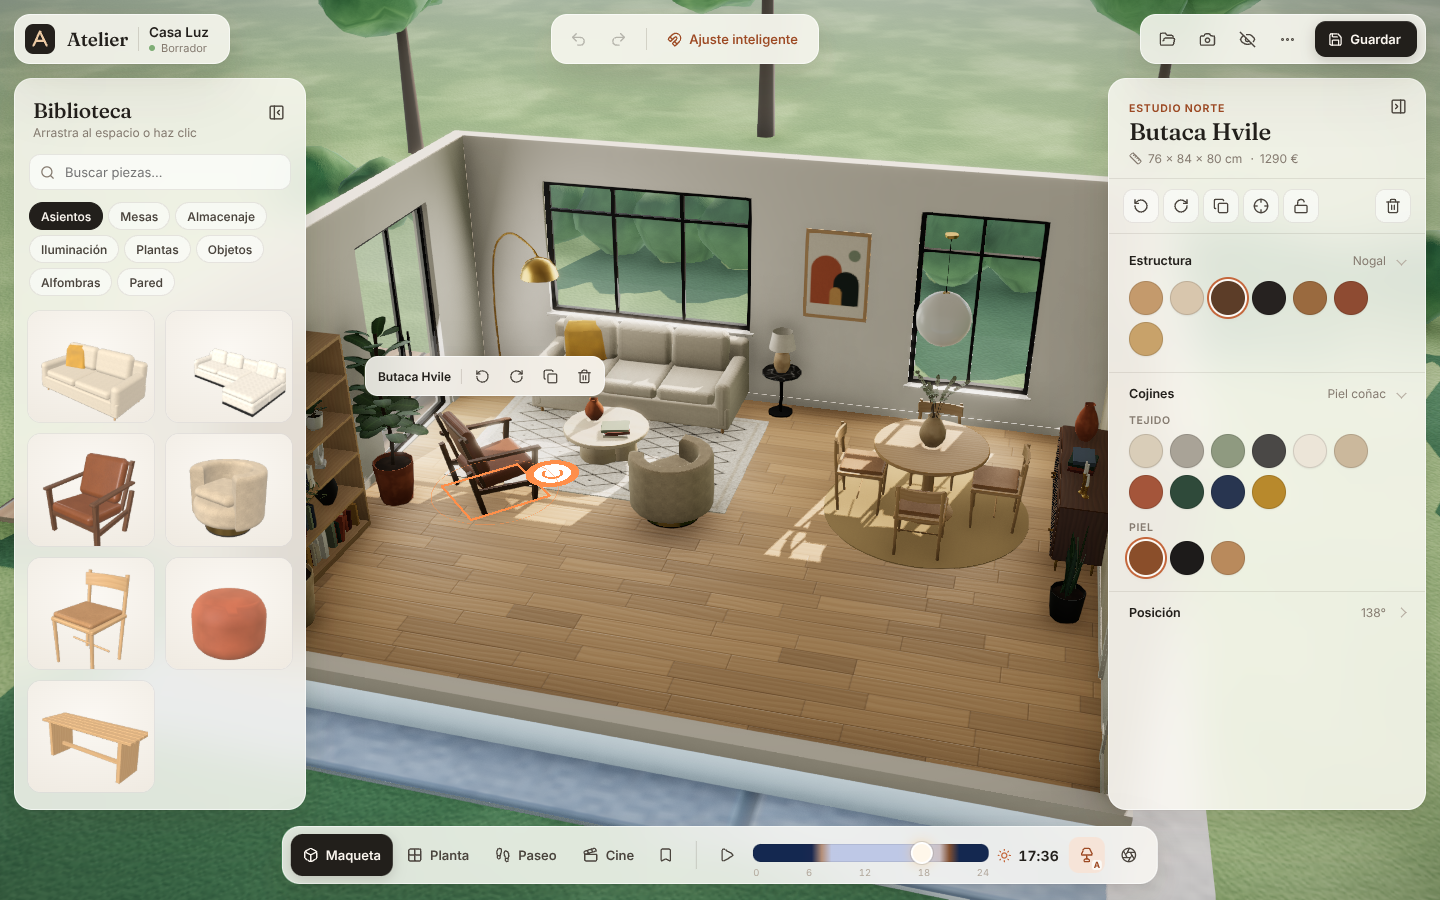
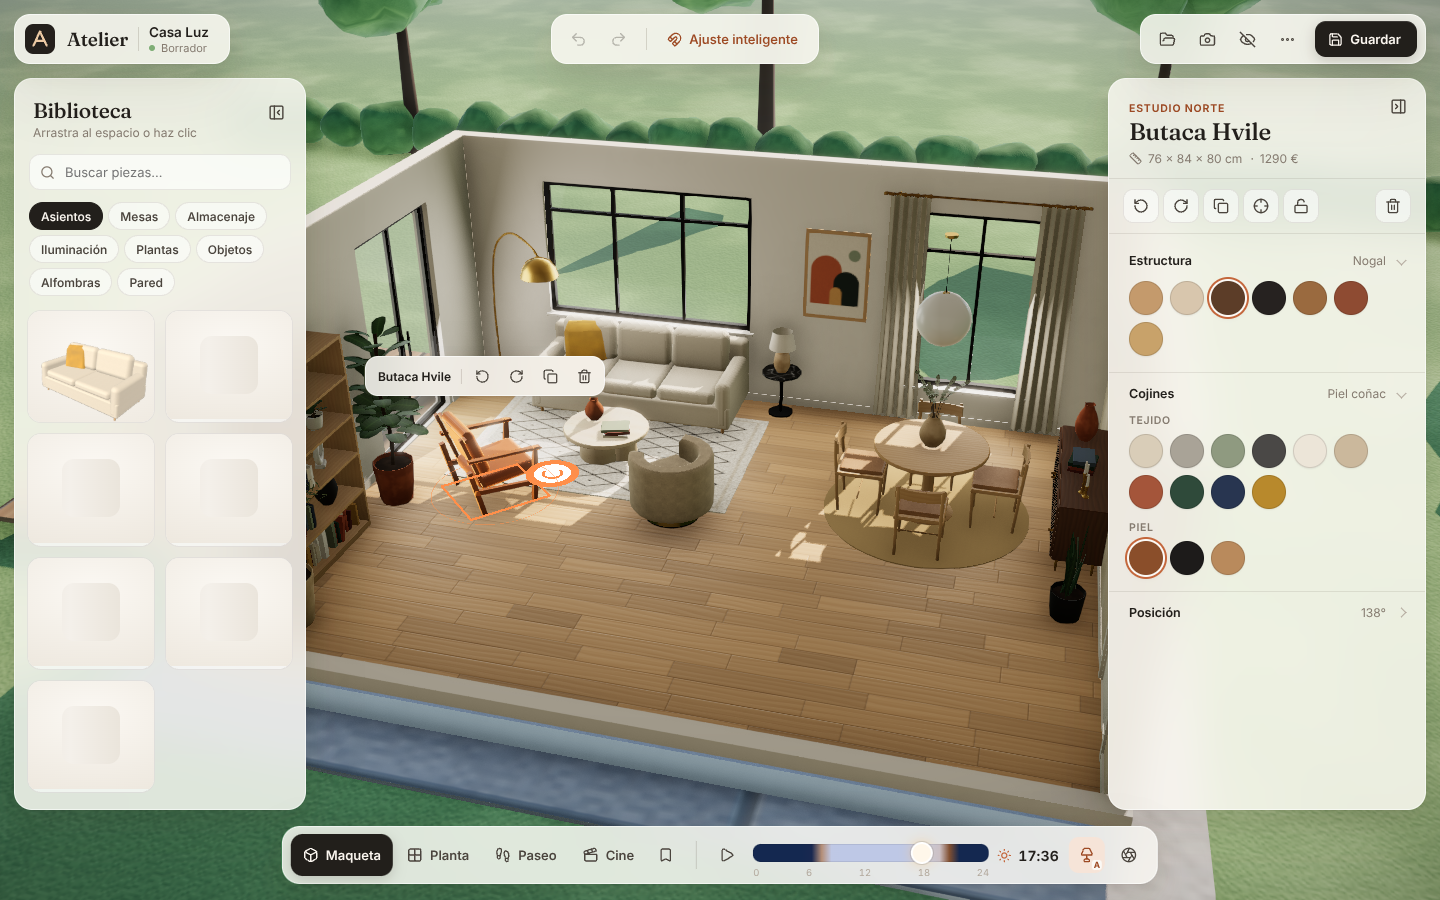
Hide wall pieces on cut-away walls, recentre on mode re-click, cleanup, README
Claude-Session: https://claude.ai/code/session_018MjesfdSRvqvDvp6L9anzd

diff --git a/src/engine/Engine.ts b/src/engine/Engine.ts
@@ -3,7 +3,7 @@ import { getDef } from '../core/catalog';
 import { findItem, footprintAABB, worldPose, boxesAt, obstacles } from '../core/placement';
 import { HALF_D, HALF_W } from '../core/room';
 import { overlapMTV } from '../core/geometry';
-import type { CameraBookmark, CameraMode, DesignDoc, EnvironmentState } from '../core/types';
+import type { CameraBookmark, CameraMode, DesignDoc } from '../core/types';
 import { useStore, type AppState } from '../state/store';
 import { CameraRig, ORBIT_HOME } from './CameraRig';
 import { Interaction } from './Interaction';
@@ -218,7 +218,9 @@ export class Engine {
     // Interior: bounce light captured from the room itself.
     const prevFog = this.scene.fog;
     this.scene.fog = null;
+    this.items.setCutWalls(new Set());
     this.shell.withAllVisible(() => this.probe.capture(this.scene));
+    this.items.setCutWalls(this.shell.cutWalls());
     this.scene.fog = prevFog;
     const st = this.lighting.state;
     this.scene.environmentIntensity = 0.5 + 0.2 * st.daylight;
@@ -243,6 +245,7 @@ export class Engine {
     this.rig.update(dt);
     const mode = this.rig.mode;
     this.shell.updateCutaway(this.camera.position, mode !== 'walk');
+    this.items.setCutWalls(this.shell.cutWalls());
 
     const env = useStore.getState().env;
     this.lighting.update(env, dt);
@@ -401,9 +404,10 @@ export class Engine {
     if (b) this.rig.focus(b);
   }
 
+  /** Back to the mode's default framing. */
   resetView() {
     if (this.rig.mode === 'orbit') this.rig.flyTo(this.rig.homePos(), ORBIT_HOME.target, this.rig.homeFov(), 1.1);
-    else this.rig.setMode(this.rig.mode);
+    else if (this.rig.mode !== 'cinematic') this.rig.setMode(this.rig.mode);
   }
 
   currentView(name: string): CameraBookmark {
@@ -462,10 +466,6 @@ export class Engine {
     this.captureEnv();
     this.frame();
     return this.frameCount;
-  }
-
-  envPreview(env: EnvironmentState) {
-    this.lighting.update(env, 0);
   }
 
   /** Debug/testing hook: true when the item intersects nothing. */

diff --git a/src/engine/ItemLayer.ts b/src/engine/ItemLayer.ts
@@ -114,6 +114,16 @@ export class ItemLayer {
     e.light?.dispose();
   }
 
+  /** Hide pieces hanging on cut-away walls (and whatever rests on them). */
+  setCutWalls(cut: Set<string>) {
+    for (const e of this.entries.values()) {
+      let wall = e.item.wall;
+      if (!wall && e.item.parentId) wall = this.entries.get(e.item.parentId)?.item.wall;
+      const visible = !wall || !cut.has(wall);
+      if (e.root.visible !== visible) e.root.visible = visible;
+    }
+  }
+
   setLampFactor(f: number) {
     if (Math.abs(f - this.lampFactor) < 1e-3) return;
     this.lampFactor = f;
@@ -134,15 +144,6 @@ export class ItemLayer {
     }
   }
 
-  /** Lamps currently lit (for the env probe heuristics). */
-  get lampsLit(): boolean {
-    return this.lampFactor > 0.01;
-  }
-
-  objectFor(id: string): THREE.Group | undefined {
-    return this.entries.get(id)?.root;
-  }
-
   meshesFor(id: string): THREE.Object3D[] {
     const e = this.entries.get(id);
     if (!e) return [];
@@ -157,7 +158,7 @@ export class ItemLayer {
   pickables(exclude?: Set<string>): THREE.Object3D[] {
     const out: THREE.Object3D[] = [];
     for (const [id, e] of this.entries) {
-      if (exclude?.has(id)) continue;
+      if (exclude?.has(id) || !e.root.visible) continue;
       e.model.traverse((o) => {
         if ((o as THREE.Mesh).isMesh) out.push(o);
       });

diff --git a/src/ui/Dock.tsx b/src/ui/Dock.tsx
@@ -59,7 +59,7 @@ export function Dock() {
     <div className="dock">
       <div className="dock-group" role="tablist" aria-label="Cámara">
         {MODES.map((m) => (
-          <button key={m.id} role="tab" aria-selected={mode === m.id} className={`mode-btn${mode === m.id ? ' is-active' : ''}`} onClick={() => setCamera({ mode: m.id, tour: m.id === 'cinematic' })} title={`${m.label} (${m.key})`}>
+          <button key={m.id} role="tab" aria-selected={mode === m.id} className={`mode-btn${mode === m.id ? ' is-active' : ''}`} onClick={() => (mode === m.id && m.id !== 'cinematic' ? getEngine()?.resetView() : setCamera({ mode: m.id, tour: m.id === 'cinematic' }))} title={mode === m.id && m.id !== 'cinematic' ? `${m.label} · clic para recentrar` : `${m.label} (${m.key})`}>
             {m.icon}
             <span>{m.label}</span>
           </button>

diff --git a/src/engine/Lighting.ts b/src/engine/Lighting.ts
@@ -1,7 +1,7 @@
 import * as THREE from 'three';
 import { Sky } from 'three/examples/jsm/objects/Sky.js';
 import { RectAreaLightUniformsLib } from 'three/examples/jsm/lights/RectAreaLightUniformsLib.js';
-import { ROOM, type Opening, type WallSpec, wallToWorld } from '../core/room';
+import { type Opening, type WallSpec, wallToWorld } from '../core/room';
 import type { EnvironmentState } from '../core/types';
 
 // Time-of-day lighting: physically based sky, sun/moon with soft shadows,
@@ -293,9 +293,5 @@ export class EnvironmentProbe {
     this.texture = rt.texture;
     scene.environment = this.texture;
     void prevEnv;
-  }
-
-  get height(): number {
-    return ROOM.height;
   }
 }

diff --git a/src/engine/RoomShell.ts b/src/engine/RoomShell.ts
@@ -408,6 +408,12 @@ export class RoomShell {
   /** Materials of the garden, lit by the sky rather than the interior probe. */
   static readonly EXTERIOR_MATERIALS = ['ext-lawn', 'ext-deck', 'ext-gravel', 'ext-foliage', 'ext-bark', 'ext-plinth'];
 
+  cutWalls(): Set<string> {
+    const out = new Set<string>();
+    for (const p of this.walls.values()) if (p.cut) out.add(p.id);
+    return out;
+  }
+
   isCut(id: WallId): boolean {
     return this.walls.get(id)?.cut ?? false;
   }

diff --git a/src/engine/CameraRig.ts b/src/engine/CameraRig.ts
@@ -351,13 +351,6 @@ export class CameraRig {
     this.keys.delete(e.code);
   };
 
-  get isTransitioning(): boolean {
-    return !!this.transition;
-  }
-
-  /** Walk-mode helper so arrow keys can nudge items instead of walking. */
-  walkUsesArrows = true;
-
   dispose() {
     this.controls.dispose();
     this.dom.removeEventListener('pointerdown', this.onPointerDown);

diff --git a/src/engine/MaterialLibrary.ts b/src/engine/MaterialLibrary.ts
@@ -190,10 +190,6 @@ export class MaterialLibrary {
       onProgress?.(done, total);
     }
   }
-
-  get queued(): number {
-    return this.inflight.size;
-  }
 }
 
 // ── Swatches for the UI ─────────────────────────────────────────────────────

diff --git a/src/engine/Overlays.ts b/src/engine/Overlays.ts
@@ -193,13 +193,4 @@ export class Overlays {
     this.measures.visible = true;
   }
 
-  hideAll() {
-    this.measures.visible = false;
-    this.footprint.visible = false;
-    this.hoverPrint.visible = false;
-    this.guides.visible = false;
-    this.ring.visible = false;
-    this.handle.visible = false;
-    this.ringTicks.visible = false;
-  }
 }

diff --git a/src/state/store.ts b/src/state/store.ts
@@ -394,5 +394,3 @@ useStore.subscribe((s, prev) => {
     writeAutosave({ doc: st.doc, env: st.env, projectId: st.projectId });
   }, 500);
 });
-
-export const selectedItem = (s: AppState): ItemInstance | undefined => (s.selection?.kind === 'item' ? findItem(s.doc, s.selection.id) : undefined);

diff --git a/README.md b/README.md
@@ -9,16 +9,17 @@ ver cómo cambia la luz a lo largo del día, recorrer el espacio y guardar cada 
 
 | | |
 |---|---|
-| **Amueblar** | 40 piezas modeladas proceduralmente (asientos, mesas, almacenaje, lámparas, plantas, objetos, alfombras, cuadros, espejos…). Clic en la biblioteca para colocar en un hueco libre, o arrastrar directamente a la escena. |
+| **Amueblar** | 41 piezas modeladas proceduralmente (asientos, mesas, almacenaje, lámparas, plantas, objetos, alfombras, cuadros, espejos, cortinas…). Clic en la biblioteca para colocar en un hueco libre, o arrastrar directamente a la escena. |
 | **Mover, girar, duplicar, eliminar** | Arrastrar piezas, anillo de giro con asa (pasos de 15°), barra contextual flotante, atajos (`Q/E/R`, `Ctrl+D`, `Supr`, flechas para desplazar 5 cm / 1 cm). Bloqueo de posición. |
 | **Sin intersecciones** | Colisiones 2.5D exactas (OBB con SAT + bandas verticales): los muebles no atraviesan paredes, otros muebles ni el paso de las puertas. Al arrastrar contra un obstáculo la pieza *se desliza* a lo largo de él; si se suelta en un sitio imposible vuelve a la última posición válida. |
-| **Colocación inteligente** | Cada pieza sabe dónde vive: suelo, pared, techo, alfombra o **sobre otros muebles** (los jarrones se apoyan en mesas, aparadores, estantes de la librería; al mover el mueble, lo que tiene encima viaja con él). Ajuste a pared (enrasado), orientación automática de sofás/librerías contra la pared, guías de alineación entre piezas, cuadros centrados sobre muebles, evitar ventanas. Modos *inteligente / rejilla 10 cm / libre* (`G`, o `Mayús` al arrastrar). Las sillas de comedor se meten bajo la mesa. |
+| **Colocación inteligente** | Cada pieza sabe dónde vive: suelo, pared, techo, alfombra o **sobre otros muebles** (los jarrones se apoyan en mesas, aparadores, estantes de la librería; al mover el mueble, lo que tiene encima viaja con él). Ajuste a pared (enrasado), orientación automática de sofás/librerías contra la pared, guías de alineación entre piezas, cuadros centrados sobre muebles, evitar ventanas. Modos *inteligente / rejilla 10 cm / libre* (`G`, o `Mayús` al arrastrar). Las sillas de comedor se meten bajo la mesa; las cortinas se centran solas sobre las ventanas. Mientras arrastras, **cotas en vivo** con la distancia a las paredes; en el inspector se puede teclear la posición exacta (X, Z, giro, altura). |
 | **Materiales y acabados** | ~95 materiales PBR con texturas procedurales (roble, nogal, espiga, terrazo, mármoles, travertino, cal, ladrillo encalado, zellige, listones, lino, bouclé, terciopelo, piel, latón…). Cada pieza tiene ranuras (tapicería, patas, sobre…) y tamaños. Suelo, cada pared, techo, rodapiés y carpintería son editables (clic en la superficie). |
 | **Hora del día** | Sol físico (cielo de Preetham con nubes, temperatura de color, sombras suaves), luz cenital entrando por cada ventana, luna y estrellas, rebote de luz interior por sonda de entorno, lámparas que se encienden solas al anochecer (o forzadas), regulador por lámpara, orientación de la vivienda y exposición. Reproducción del paso del día (`Espacio`). |
-| **Cámaras** | *Maqueta* (vista de casa de muñecas con muros recortados automáticamente), *Planta* (cenital), *Paseo* (primera persona con colisiones, WASD), *Cine* (6 planos con movimiento, bandas panorámicas y recorrido automático). Transiciones suaves; doble clic o `F` encuadra una pieza; vistas guardadas por proyecto. |
+| **Cámaras** | *Maqueta* (vista de casa de muñecas con muros recortados automáticamente), *Planta* (cenital), *Paseo* (primera persona con colisiones, WASD), *Cine* (6 planos con movimiento, bandas panorámicas y recorrido automático). Transiciones suaves; doble clic o `F` encuadra una pieza; volver a pulsar el modo recentra; vistas guardadas por proyecto. Los muros que miran a la cámara se recortan junto con lo que cuelga de ellos. |
 | **Deshacer / rehacer** | Historial completo (120 pasos) con etiquetas descriptivas; cada arrastre cuenta como un único paso. |
 | **Guardar y recuperar** | Autoguardado continuo, proyectos con miniatura en el navegador, renombrar/eliminar, exportar e importar JSON (validado y reparado al cargar), 3 plantillas de estilo + lienzo vacío. |
 | **Capturas limpias** | `H` oculta toda la interfaz; `P` exporta un PNG a doble resolución sin overlays. |
+| **Escritorio y móvil** | Interfaz adaptable: en móvil la barra se compacta, el dock pasa a dos filas y los paneles son hojas inferiores. |
 
 ## Ejecutar
 
@@ -53,11 +54,13 @@ src/
     ItemLayer.ts     Documento → objetos 3D (reconstrucción sólo cuando cambia tipo/material/tamaño)
     builders.ts      Modelado procedural de cada pieza + fusión de mallas y UV métricas
     textures.ts      Síntesis de texturas tileables (color, normal, rugosidad)
+    texturePool.ts   Pool de Web Workers que genera las texturas en paralelo
     MaterialLibrary  Materiales PBR compartidos, cola de texturas, muestras para la UI
     Interaction.ts   Picking, arrastre con reglas de colocación, asa de giro, arrastrar desde la biblioteca
     CameraRig.ts     Modos de cámara, transiciones, paseo, planos cinematográficos
-    PostFX.ts        N8AO (oclusión ambiental), bloom, ACES, gradación, viñeta, SMAA, contornos
-    Overlays.ts      Huella, anillo de giro, guías de alineación
+    PostFX.ts        N8AO (oclusión ambiental), bloom, ACES, gradación, viñeta, SMAA
+    Highlight.ts     Brillo de borde (fresnel) para selección y hover
+    Overlays.ts      Huella, anillo de giro, guías de alineación, cotas
     Thumbnails.ts    Miniaturas de la biblioteca renderizadas con los modelos reales
   ui/          React: barra superior, biblioteca, inspector, dock, modales, atajos
 ```
@@ -66,6 +69,6 @@ src/
 
 - *Documento inmutable*: cada edición produce un documento nuevo; deshacer es cambiar de referencia. Los arrastres usan "gestos" (`beginGesture/preview/endGesture`) para que todo el movimiento sea un único paso.
 - *Reglas de colocación puras* en `core/`, sin dependencias de WebGL: el motor y los comandos de teclado comparten la misma lógica, y está cubierta por pruebas.
-- *Sin assets externos*: geometría y texturas se generan en el navegador de forma determinista; la app funciona offline y pesa ~570 KB gzip.
+- *Sin assets externos*: geometría y texturas se generan en el navegador de forma determinista (texturas en un pool de *workers*, sin bloquear la interfaz); la app funciona offline y pesa ~570 KB gzip.
 - *Iluminación creíble y barata*: sombras PCF suaves del sol, `RectAreaLight` en cada ventana, una sonda cúbica del propio interior (prefiltrada con PMREM) que aporta rebote de luz con el color de las paredes, y un entorno de cielo separado para el jardín.
 - *Recorte de muros*: los muros que miran a la cámara se ocultan pero siguen proyectando sombra (material sin escritura de color/profundidad), dejando un zócalo de referencia.
